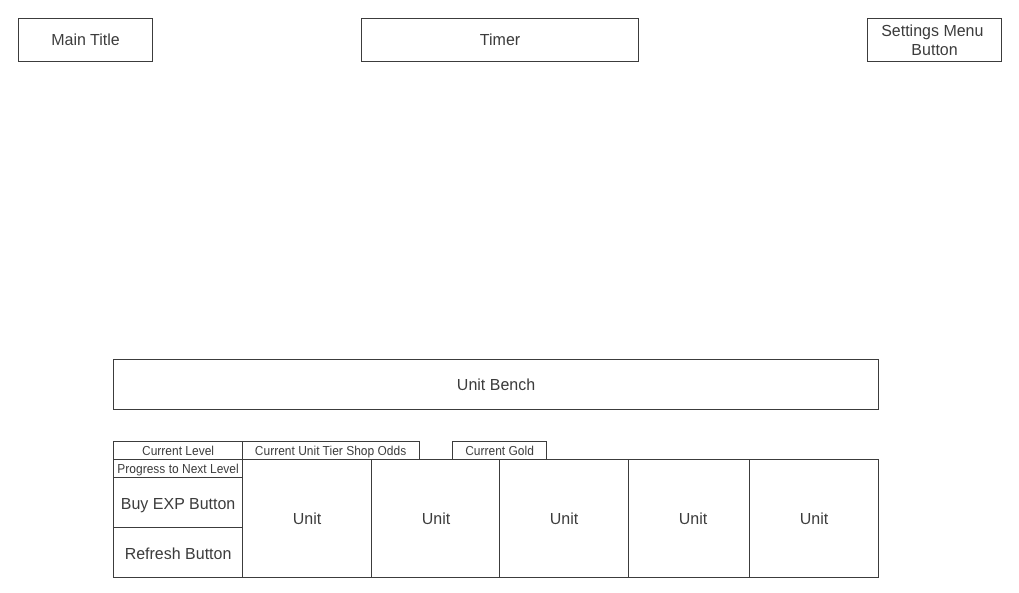
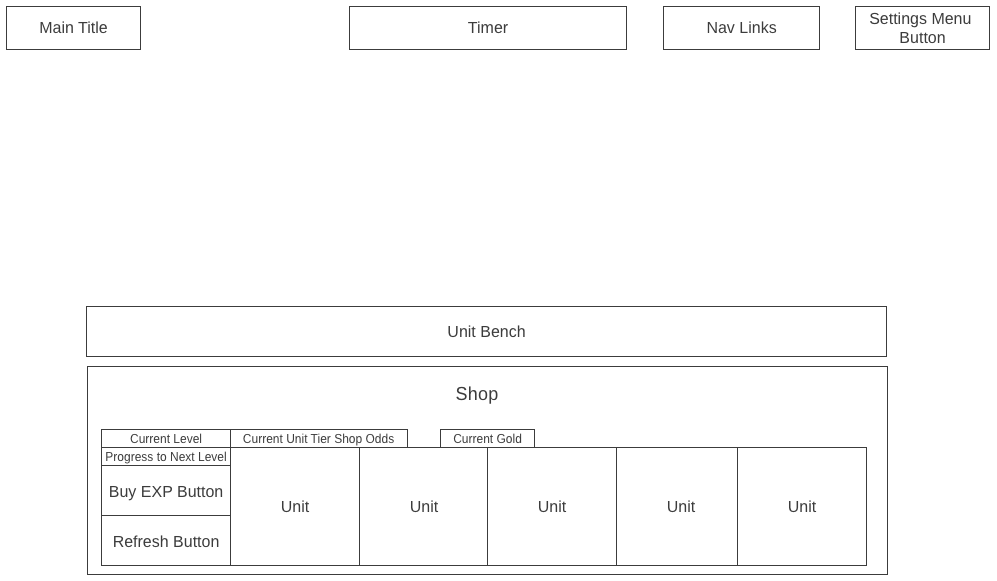
addwireframe styles for test elements

diff --git a/dist/main.js b/dist/main.js
@@ -15,7 +15,7 @@
   \**********************/
 /***/ (function() {
 
[2 lines of base64/hex data omitted]
 
 /***/ }),
 

diff --git a/dist/main.css b/dist/main.css
@@ -1,3 +1,132 @@
+/*!****************************************************************************************************!*\
+  !*** css ./node_modules/css-loader/dist/cjs.js??ruleSet[1].rules[1].use[1]!./src/styles/reset.css ***!
+  \****************************************************************************************************/
+/* http://meyerweb.com/eric/tools/css/reset/ 
+   v2.0 | 20110126
+   License: none (public domain)
+*/
+
+html, body, div, span, applet, object, iframe,
+h1, h2, h3, h4, h5, h6, p, blockquote, pre,
+a, abbr, acronym, address, big, cite, code,
+del, dfn, em, img, ins, kbd, q, s, samp,
+small, strike, strong, sub, sup, tt, var,
+b, u, i, center,
+dl, dt, dd, ol, ul, li,
+fieldset, form, label, legend,
+table, caption, tbody, tfoot, thead, tr, th, td,
+article, aside, canvas, details, embed, 
+figure, figcaption, footer, header, hgroup, 
+menu, nav, output, ruby, section, summary,
+time, mark, audio, video {
+	margin: 0;
+	padding: 0;
+	border: 0;
+	font-size: 100%;
+	font: inherit;
+	vertical-align: baseline;
+}
+/* HTML5 display-role reset for older browsers */
+article, aside, details, figcaption, figure, 
+footer, header, hgroup, menu, nav, section {
+	display: block;
+}
+body {
+	line-height: 1;
+}
+ol, ul {
+	list-style: none;
+}
+blockquote, q {
+	quotes: none;
+}
+blockquote:before, blockquote:after,
+q:before, q:after {
+	content: '';
+	content: none;
+}
+table {
+	border-collapse: collapse;
+	border-spacing: 0;
+}
+/*!***************************************************************************************************!*\
+  !*** css ./node_modules/css-loader/dist/cjs.js??ruleSet[1].rules[1].use[1]!./src/styles/base.css ***!
+  \***************************************************************************************************/
+body {
+    background-color: #E6ECF0;
+}
+
+body {
+    display: flex;
+    flex-direction: column;
+    align-items: center;
+    font-family: 'Roboto', sans-serif;
+}
+
+
+/* following classes are for testing wireframe placement on the page;
+    will not be part of prod */
+.section {
+    border: 3px solid black;
+}
+
+.top {
+    display: flex;
+    width: 100%;
+    height: 50px;
+    justify-content: space-between;
+}
+
+.top div {
+    width: 200px;
+}
+
+.top-right {
+    display: flex;
+    justify-content: space-between;
+}
+
+.bottom {
+    display: flex;
+    flex-direction: column;
+    position: absolute;
+    bottom: 0;
+    max-width: 600px;
+    width: 65%;
+}
+/*!********************************************************************************************************!*\
+  !*** css ./node_modules/css-loader/dist/cjs.js??ruleSet[1].rules[1].use[1]!./src/styles/shop/shop.css ***!
+  \********************************************************************************************************/
+.shop {
+    height: 100px;
+    display: flex;
+    justify-content: center;
+    align-items: center;
+    margin-top: 20px;
+}
+/*!**********************************************************************************************************!*\
+  !*** css ./node_modules/css-loader/dist/cjs.js??ruleSet[1].rules[1].use[1]!./src/styles/timer/timer.css ***!
+  \**********************************************************************************************************/
+.timer {
+    display: flex;
+    justify-content: center;
+    align-items: center;
+}
+/*!****************************************************************************************************************!*\
+  !*** css ./node_modules/css-loader/dist/cjs.js??ruleSet[1].rules[1].use[1]!./src/styles/settings/settings.css ***!
+  \****************************************************************************************************************/
+.settings {
+    text-align: right;
+}
+/*!**********************************************************************************************************!*\
+  !*** css ./node_modules/css-loader/dist/cjs.js??ruleSet[1].rules[1].use[1]!./src/styles/bench/bench.css ***!
+  \**********************************************************************************************************/
+.bench {
+    height: 50px;
+    display: flex;
+    justify-content: center;
+    align-items: center;
+}
 /*!*************************************************************************************************************************************!*\
   !*** css ./node_modules/css-loader/dist/cjs.js??ruleSet[1].rules[1].use[1]!./node_modules/sass-loader/dist/cjs.js!./src/index.scss ***!
   \*************************************************************************************************************************************/

diff --git a/src/index.js b/src/index.js
@@ -1,0 +1,47 @@
+// Declare object for the page's body
+const body = document.querySelector("body");
+
+// Declare objects for the top section, which contains the title, timer,
+// nav links, and settings
+const title = document.createElement("div");
+const timer = document.createElement("div");
+const navLinks = document.createElement("div");
+const settings = document.createElement("div");
+const topSection = document.createElement("div");
+const topRight = document.createElement("div");
+
+// Declare objects for the bottom section, which contains the
+// bench and shop
+const bench = document.createElement("div");
+const shop = document.createElement("div");
+const bottomSection = document.createElement("div");
+
+// set inner text and classess for top section objects
+title.innerText = "TFT Star Up";
+title.classList.add("title", "section");
+
+timer.innerText = "timer";
+timer.classList.add("timer", "section");
+
+navLinks.innerText = "navLinks";
+
+settings.innerText = "settings";
+settings.classList.add("settings");
+
+topRight.append(navLinks, settings);
+topRight.classList.add("top-right", "section",);
+
+topSection.classList.add("top");
+topSection.append(title, timer, topRight);
+
+// set inner text and classess for top section objects
+bench.innerText = "bench";
+bench.classList.add("bench", "section");
+
+shop.innerText = "shop";
+shop.classList.add("shop", "section");
+
+bottomSection.classList.add("bottom");
+bottomSection.append(bench, shop);
+
+body.append(topSection, bottomSection);

diff --git a/src/styles/reset.css b/src/styles/reset.css
@@ -1,0 +1,48 @@
+/* http://meyerweb.com/eric/tools/css/reset/ 
+   v2.0 | 20110126
+   License: none (public domain)
+*/
+
+html, body, div, span, applet, object, iframe,
+h1, h2, h3, h4, h5, h6, p, blockquote, pre,
+a, abbr, acronym, address, big, cite, code,
+del, dfn, em, img, ins, kbd, q, s, samp,
+small, strike, strong, sub, sup, tt, var,
+b, u, i, center,
+dl, dt, dd, ol, ul, li,
+fieldset, form, label, legend,
+table, caption, tbody, tfoot, thead, tr, th, td,
+article, aside, canvas, details, embed, 
+figure, figcaption, footer, header, hgroup, 
+menu, nav, output, ruby, section, summary,
+time, mark, audio, video {
+	margin: 0;
+	padding: 0;
+	border: 0;
+	font-size: 100%;
+	font: inherit;
+	vertical-align: baseline;
+}
+/* HTML5 display-role reset for older browsers */
+article, aside, details, figcaption, figure, 
+footer, header, hgroup, menu, nav, section {
+	display: block;
+}
+body {
+	line-height: 1;
+}
+ol, ul {
+	list-style: none;
+}
+blockquote, q {
+	quotes: none;
+}
+blockquote:before, blockquote:after,
+q:before, q:after {
+	content: '';
+	content: none;
+}
+table {
+	border-collapse: collapse;
+	border-spacing: 0;
+}

diff --git a/src/styles/base.css b/src/styles/base.css
@@ -1,0 +1,42 @@
+body {
+    background-color: #E6ECF0;
+}
+
+body {
+    display: flex;
+    flex-direction: column;
+    align-items: center;
+    font-family: 'Roboto', sans-serif;
+}
+
+
+/* following classes are for testing wireframe placement on the page;
+    will not be part of prod */
+.section {
+    border: 3px solid black;
+}
+
+.top {
+    display: flex;
+    width: 100%;
+    height: 50px;
+    justify-content: space-between;
+}
+
+.top div {
+    width: 200px;
+}
+
+.top-right {
+    display: flex;
+    justify-content: space-between;
+}
+
+.bottom {
+    display: flex;
+    flex-direction: column;
+    position: absolute;
+    bottom: 0;
+    max-width: 600px;
+    width: 65%;
+}

diff --git a/index.html b/index.html
@@ -6,7 +6,7 @@
         <meta name="viewport" content="width=device-width, initial-scale=1.0" />
         <meta http-equiv="X-UA-Compatible" content="ie=edge" />
         <link rel="stylesheet" href="./dist/main.css" />
-        <script src="./dist/main.js"></script>
+        <script src="./dist/main.js" defer></script>
         <title>TFT Star Up</title>
     </head>
 

diff --git a/src/index.scss b/src/index.scss
@@ -1,0 +1,7 @@
+// Entry point for Sass build
+@import "./styles/reset.css";
+@import "./styles/base.css";
+@import "./styles/shop/shop.css";
+@import "./styles/timer/timer.css";
+@import "./styles/settings/settings.css";
+@import "./styles/bench/bench.css";

diff --git a/src/styles/shop/shop.css b/src/styles/shop/shop.css
@@ -1,0 +1,7 @@
+.shop {
+    height: 100px;
+    display: flex;
+    justify-content: center;
+    align-items: center;
+    margin-top: 20px;
+}

diff --git a/src/styles/bench/bench.css b/src/styles/bench/bench.css
@@ -1,0 +1,6 @@
+.bench {
+    height: 50px;
+    display: flex;
+    justify-content: center;
+    align-items: center;
+}

diff --git a/src/styles/timer/timer.css b/src/styles/timer/timer.css
@@ -1,0 +1,5 @@
+.timer {
+    display: flex;
+    justify-content: center;
+    align-items: center;
+}

diff --git a/src/styles/settings/settings.css b/src/styles/settings/settings.css
@@ -1,0 +1,3 @@
+.settings {
+    text-align: right;
+}

diff --git a/README.MD b/README.MD
@@ -38,7 +38,7 @@ for configuring rolldown settings
 
 ## Wireframes
 
-![wireframe](image-2.png)
+![wireframe](image.png)
 
 - Timer will show the configured time for the rolldown and can be configured
 - Nav links includes links to this project's Github repo and my LinkedIn
